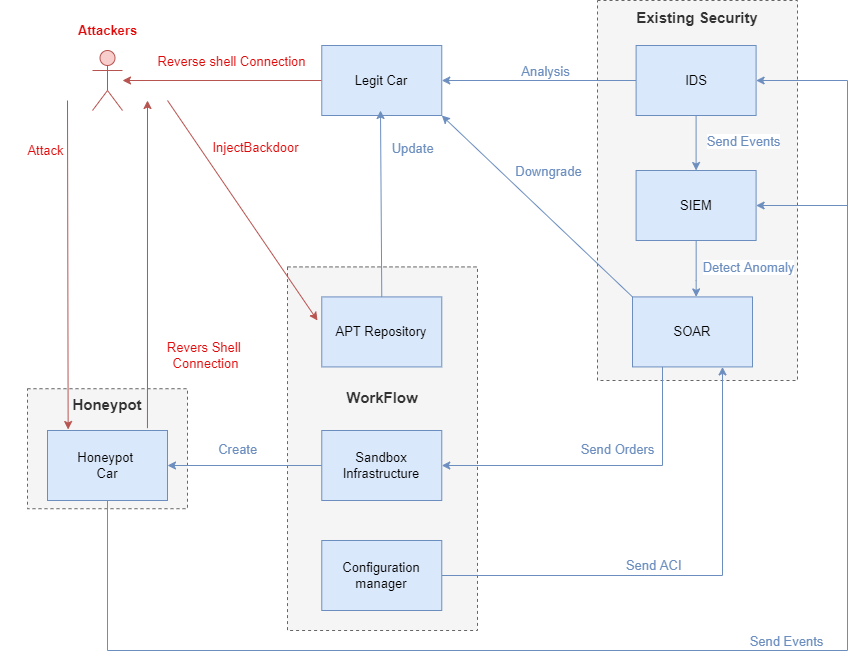
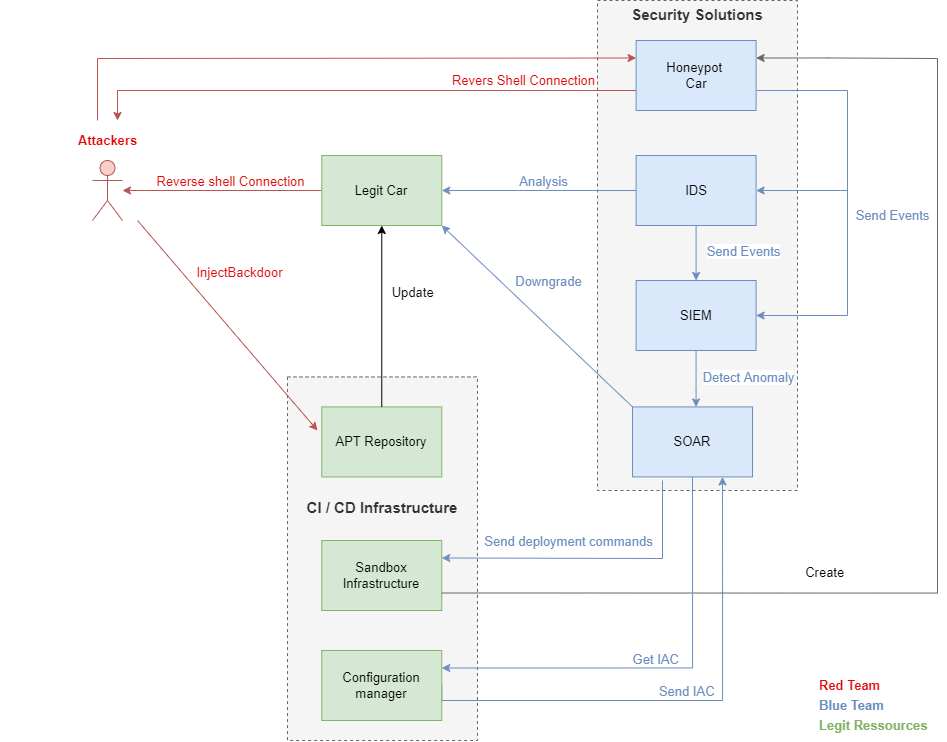
Update Use Case - Consideration of github comments (18/07)

diff --git a/Use Case.md b/Use Case.md
@@ -1,26 +1,19 @@
 # Use Case
 ## Context
-As part of the SPARTA project and the integration of security solutions in a DevSecOps pipeline, CETIC to study a case based on the operation of a platoon of connected and autonomous vehicles using RoS (Robot Operating System).
+As part of the SPARTA [^4] project and the integration of security solutions into a DevSecOps pipeline, CETIC worked on a case based on the operation of a platoon of connected and autonomous vehicles using RoS (Robot Operating System )[^5].
 
-### Autonomous car and platoon 
-The platoon technique is an automated highway system that allows the vehicle to communicate with each other in order to perform common and coordinated actions, such as accelerating or braking in unison. The aim of this technique is to reduce the risk of collision accidents, reduce fuel consumption by limiting air resistance and reduce traffic congestion by reducing road surface area and reducing traffic flow.
-A platoon consists of a leading vehicle, followed by vehicles, followers. Each vehicle consists of sensors and sensors for decision-making. The leader’s decisions are sent to the followers who will then execute. For example, when the leading vehicle encounters an obstacle, its sensors inform it of a danger and the leading car will slow down, resulting in a slowdown of the peloton, and therefore of any car following.
-![A platoon of connected vehicles](/IMAGES/platoon-of-connected-vehicles.png)  
-<b> Fig.1 - A platoon of connected vehicles </b> [^1]  
-
-The objective of this use case is to demonstrate the value of continuous deployment, integration and safety in the DevSecOps pipeline, only one vehicle will be implemented.
-The creation of a complete platoon and the study of the attacks of this platoon may be part of a future work.
+The objective of this use case is to demonstrate the value of integrating a honeypot solution into an Edge Computing environment while promoting the value of continuous deployment, integration and security in the DevSecOps pipeline.
 
 ### Challenges
-Autonomous vehicles are primarily computer systems consisting of an operating system, software and components necessary for decision-making.
+Autonomous vehicles are primarily computer systems consisting of an operating system, software and components necessary for decision-making[^6].
 These vehicles are connected both to the other vehicles of the platoon, but also to a more global management system, using not always reliable communication protocols and with security vulnerabilities.
 
 CETIC has demonstrated, using a test bench deployed in a DevSecOps lifecycle, that exploitable threats exist and that attacks can lead to disasters if these threats are not addressed.
 To counter these threats, CETIC researchers have integrated IDS, SIEM and SOAR solutions into the DevSecOps lifecycle. They were also able to demonstrate that the integration of security solutions makes it possible to put in place countermeasures to the dangers of compromises.
 
-Despite the fact that these solutions have definite interests in countering these threats, they serve primarily to protect systems from known techniques and vulnerabilities.
+Despite the fact that these security solutions have undeniable interests in countering these threats, they serve primarily to protect systems from known techniques and vulnerabilities.
 
-It is therefore interesting to ask how to discover new faults, new techniques and vulnerabilities without it taking place in a production system and in order to prevent all disasters. The solution lies in the integration of a honeypot into the DevSecOps pipeline.
+It is therefore interesting to ask how to discover new security flaws, techniques and vulnerabilities without this taking place in a system in production and in order to limit the risks related to computer systems and cybersecurity. The solution lies in integrating a honeypot into the DevSecOps pipeline.
 
 ## Scenario
 The attack scenario defined by CETIC describes the injection of a backdoor into a vehicle’s firewall via an update from the project repository.
@@ -28,25 +21,28 @@ The attack scenario defined by CETIC describes the injection of a backdoor into 
 ![Backdoor attack scenario ](/IMAGES/Backdoorpng.png)  
 <b> Fig.2 - Backdoor attack scenario </b> [^2]  
 
-After discovering a vulnerability in the firewall, the attacker will exploit it using MSFVenom. It will inject a payload via a HelloBD file into the legitimate Debian package, IpTable. This package contains the backdoor that will connect the vehicle to the attacker using reverse shell via MetaSploit. It will then be uploaded to the repository containing the project code.
+After discovering a vulnerability in the firewall, the attacker will exploit it using MSFVenom[^7]. It will inject a payload via a HelloBD[^8] file into the legitimate Debian package, iptables[^9]. This package contains the backdoor that will connect the vehicle to the attacker using reverse shell via MetaSploit[^10]. It will then be uploaded to the repository containing the firewall package.
 The vehicle will then update its firewall to the new version of IpTable and install the malicious binary. Once installed, the victim vehicle will connect to the attacker’s console and provide him with administrator access rights (sudo).
 The attacker then has his hand on the vehicle and can control it as he pleases.
 
+![Backdoor attack demonstration with MetaSploit ](/IMAGES/MetaSploit.png)  
+<b> Fig.3 - Backdoor attack demonstration with MetaSploit </b> [^11]  
+
 ## Integration of a honeypot
 
-The integration of security tools (IDS, SIEM, SOAR) has been carried out in previous stages. The detection and analysis steps have been implemented so that an initial response to this vulnerability is given.
+The integration of security tools (IDS, SIEM, SOAR) has been carried out in previous internships [^2] [^12]. The detection and analysis steps have been implemented so that an initial response to this vulnerability is given.
 Indeed, the existing response allows downgrading the firewall of the target vehicle in order to return to a reliable version.
 This work consists of adding an additional layer of security by adding a honeypot imitating as much as possible the behavior of a vehicle in production. The intention is to add a response from SOAR, which will communicate with a sandbox environment to deploy dummy vehicles.
 
 Here is a diagram representing the structure integrating a honeypot:
 
 ![Structure of the use case integrating a honeypot](/IMAGES/UseCase-stucture.png)  
-<b> Fig.3 - Structure of the use case integrating a honeypot </b> [^3]  
+<b> Fig.4 - Structure of the use case integrating a honeypot </b> [^3]  
 
 In order to understand step by step the operation from the attack to the response, here is a sequence diagram: 
 
 ![Sequence diagram of the use case](/IMAGES/UseCase-sequence.png)  
-<b> Fig.4 - Sequence diagram of the use case </b> [^3]  
+<b> Fig.5 - Sequence diagram of the use case </b> [^3]  
 
 The steps shown in this diagram are:
 - 1 : The attacker injects a backdoor into the application repository by modifying IpTable;
@@ -58,18 +54,18 @@ The steps shown in this diagram are:
 - 7 : The IDS detects an event and sends it to SIEM;
 - 8 : SIEM analyzes events and detects an anomaly;
 - 9 : SIEM sends an alert to SOAR to address the vulnerability;
-- 10 : / 11. The SOAR retrieves the configuration from the configuration manager;
+- 10 / 11 : The SOAR retrieves the configuration from the configuration manager;
 - 12 : SOAR sends the honeypot creation order to the sandbox infrastructure;
-- 13 : / 14. The infected vehicle is downgraded and disconnected from the attacker;
+- 13 / 14 : The infected vehicle is downgraded and disconnected from the attacker. The autonomous vehicle is quarantined ;
 - 15 : The Honeypot car is created and deployed;
 - 16 : The Honeypot car mimics the behavior of a legitimate vehicle and connects to the attacker via the reverse Shell;
 - 17 : The attacker launches a series of attacks (for example reconnaissance);
-- 18 : / 19. Events and artifacts (network traffic and payload) are collected and sent to IDS and SIEM.
+- 18 / 19 / 20 :. Events and artifacts (network traffic and payload) are collected and sent to SIEM to bring to light new security flaws, techniques and vulnerabilities.
 
 ## Functional specification
 
-In order to determine a solution that can be integrated into the DevSecOps pipeline and with features specific to edge computing and in this case meeting the requirements of the use case, we have determined selection criteria.
-Existing solutions will then be confronted with these criteria in order to determine which is most appropriate.
+In order to determine a solution that can be integrated into the DevSecOps pipeline and with features specific to edge computing and in this case meeting the requirements of the use case, selection criteria have been defined.
+The existing solutions will then be compared to these criteria in order to determine which is the most appropriate.
 
 From a functional point of view, the honeypot must be able to:
 * Capture the commands typed by the attacker
@@ -78,11 +74,11 @@ From a functional point of view, the honeypot must be able to:
 * Interfacing with SOAR
 
 From a non-functional perspective, honeypot must:
-* Be in open source licenses
+* Provide an open source license
 * Have a vibrant community
 * Be easy to install and take in hand
 * Provide documentation
-* Meet these characteristics as a minimum:
+* Meet these characteristics [^13] as a minimum:
     * Interaction Level: High/Medium Interaction
     * Resource level: Hybrid
     * Communication interface: Reverse shell
@@ -98,8 +94,20 @@ From a non-functional perspective, honeypot must:
 
 ## Implementation in a PoC
 
+# Glossary
+* Reverse shell : Computer technique that allows attackers to open ports to target machines, forcing communication and allowing complete control of the target machine.
 
 # References 
-[^1]: R. Passerone et al., "A Methodology for the Design of Safety-Compliant and Secure Communication of Autonomous Vehicles," in IEEE Access, vol. 7, pp. 125022-125037, 2019, doi: 10.1109/ACCESS.2019.2937453.
-[^2]: G.Ginis (2021). https://github.com/cetic/devsecops/blob/master/IDS-SIEM/IDS.md
-[^3]: Use Case Diagrams by Abdel-Malek Bouhou. honeypot\IMAGES\UseCase-Diagrams.drawio
+[^1]: R. Passerone et al., "A Methodology for the Design of Safety-Compliant and Secure Communication of Autonomous Vehicles," in IEEE Access, vol. 7, pp. 125022-125037, 2019, doi: 10.1109/ACCESS.2019.2937453.  
+[^2]: H. Amraoui IDS and SIEM - Intrusion detection system and Security Information and Event Management (2021).  https://github.com/cetic/devsecops/blob/master/IDS-SIEM 
+[^3]: Use Case Diagrams by Abdel-Malek Bouhou. honeypot\IMAGES\UseCase-Diagrams.drawio  
+[^4]: S. Dupont. SPARTA - CAPE program - D5.1: Assessment specifications and roadmap. (2019). https://www.sparta.eu/assets/deliverables/SPARTA-D5.1-Assessment-specifications-and-roadmap-PU-M12.pdf  
+[^5]: ROS - Robot Operating System. https://www.ros.org/  
+[^6]: Jo, K., Kim, J., Kim, D., Jang, C., & Sunwoo, M. (2014). Development of Autonomous Car—Part I: Distributed System Architecture and Development Process. IEEE Transactions on Industrial Electronics, 61(12), 7131–7140. doi:10.1109/tie.2014.2321342 
+[^7]: "MSFvenom is a combination of Msfpayload and Msfencode" https://www.offensive-security.com/metasploit-unleashed/msfvenom/
+[^8]: "NoSQL backend solution" http://hellodb.ai/
+[^9]: "free Linux userspace software through which the system administrator can configure chains and rules in the kernel space firewall" https://fr.wikipedia.org/wiki/Iptables
+[^10]: "Penetration testing framework" https://www.metasploit.com/
+[^11]: S.Dupont, G. Ginis, P. Massonet. "Securing platoon firewall updates" CETIC.be / sparta.eu
+[^12]: H.Benchrifa - SOAR https://github.com/cetic/devsecops/blob/master/SOAR/Operate.md
+[^13]: A-M. Bouhou. Honeypot - State Of Art - Characteristics of honeypots. honeypot\State Ot Art.md
